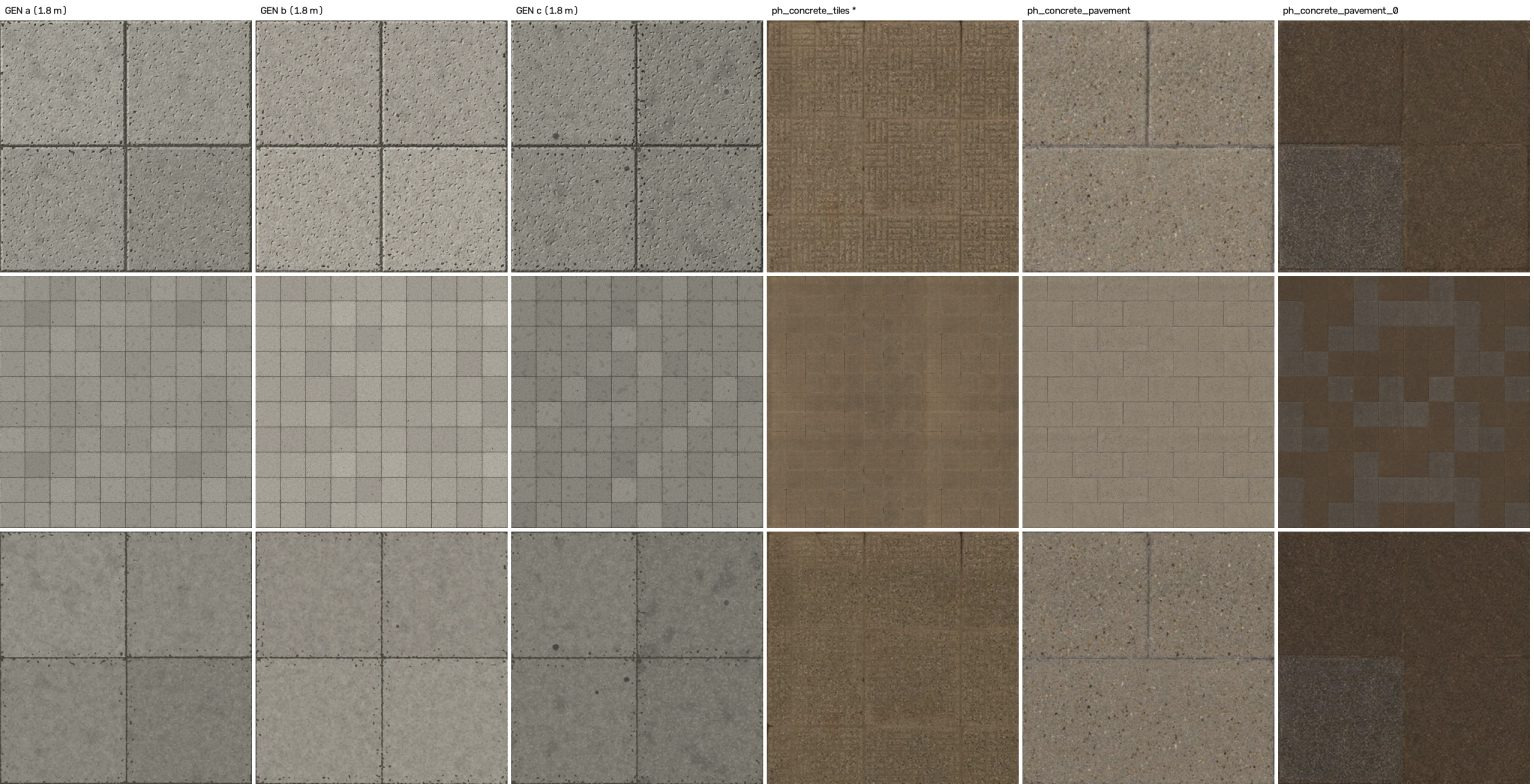
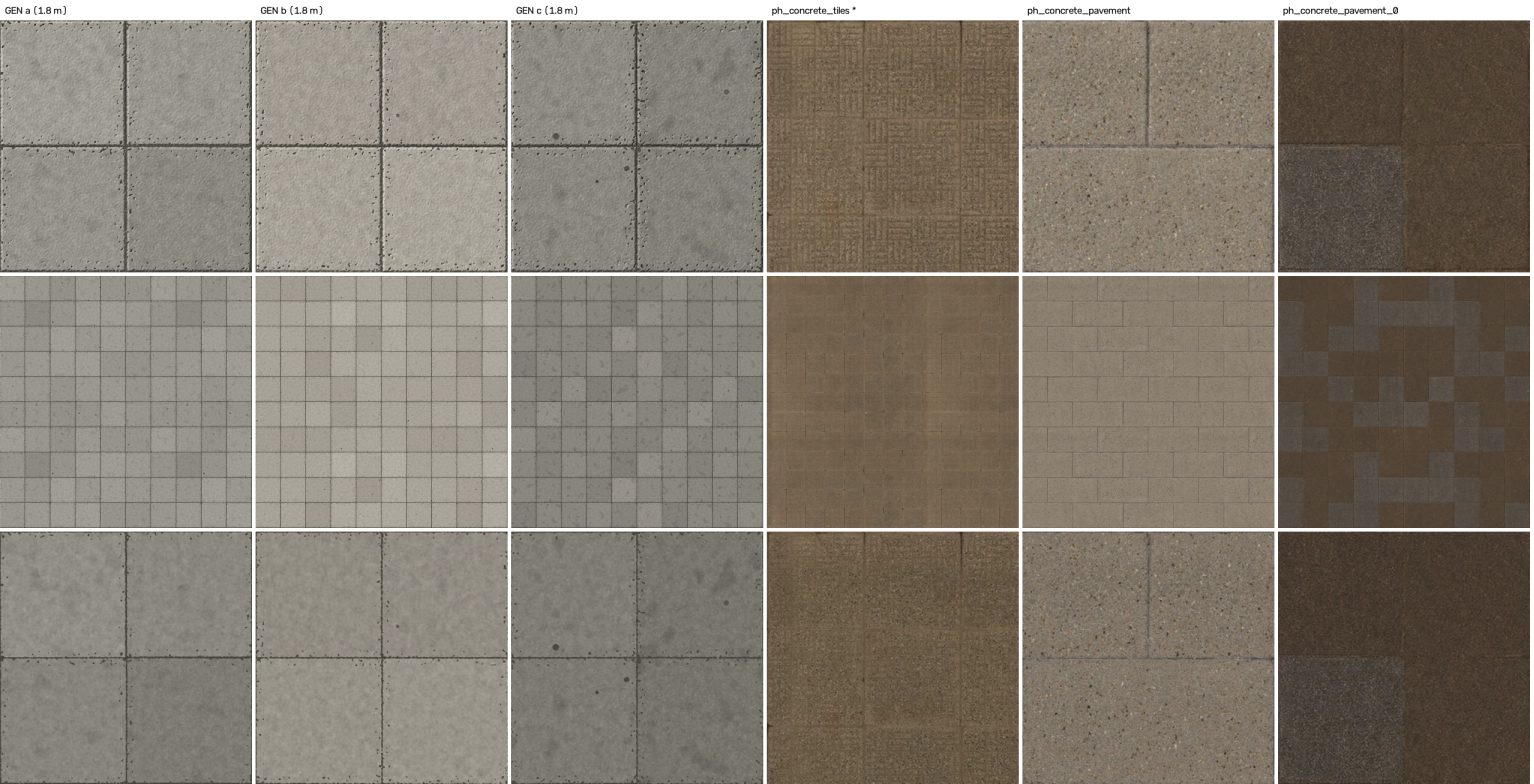
Texture factory: verdicts, cost, weak points (docs/TEXTURE_FACTORY.md), TODO entries; paving chips only on edges

diff --git a/tools/texturefactory/materials/ground.py b/tools/texturefactory/materials/ground.py
@@ -154,6 +154,7 @@ def paving(T, P):
     cn = T.noise(0.02, 2, octaves=2)
     corner = smoothstep(0.8, 1.0, np.minimum(np.abs(lx) / hx, 1) * np.minimum(np.abs(ly) / hy, 1))
     chip = smoothstep(0.0, 0.3, cn - 1.6 + 1.2 * corner + 0.4 * pu(1) * P.get("chips", 0.5)) * 0.02
+    chip = chip * smoothstep(-0.028, -0.014, U["d"])               # chips only along the edges (no holes mid-tile)
     d = U["d"] + T.noise(0.01, 3) * 0.0006 + chip
     inside = smoothstep(0.0006, -0.0006, d)
     cham = P.get("chamfer", 0.004)
@@ -161,14 +162,14 @@ def paving(T, P):
     edge = -cham * (1 - t) * 0.8
     settle = pu(2, "normal") * 0.0015 + pu(3, "normal") * 0.004 * lx + pu(4, "normal") * 0.004 * ly   # rocked tiles
     # exposed fine aggregate (washed surface) + cement skin
-    ag = stones(T, 0.0035, 5, presence=0.55, dome_m=0.00035, flat=0.7)
+    ag = stones(T, 0.003, 5, presence=0.4, dome_m=0.00025, flat=0.7)
     surf = T.noise(0.01, 6, octaves=3) * 0.0002 + ag["height"]
     h_t = edge + settle + surf - smoothstep(0.0, 0.004, chip) * 0.003
     h = lerp(np.full_like(d, -0.006) + T.noise(0.003, 7) * 0.0005, h_t, inside)
     base = hexcol(P["color"])
     col = base * np.exp(pu(5, "normal") * P.get("tile_sd", 0.07))[..., None]
     col = col * (1 + T.noise(0.06, 8, octaves=4)[..., None] * 0.07 + T.noise(0.004, 9, octaves=2)[..., None] * 0.05)
-    agc = palette_pick(ag["rnd"], [(hexcol("#8f8a82"), 3), (hexcol("#6d6964"), 2), (hexcol("#a8a298"), 1), (hexcol("#5b5a58"), 1)])
+    agc = palette_pick(ag["rnd"], [(hexcol("#948f86"), 3), (hexcol("#7d7972"), 2), (hexcol("#aba59b"), 2), (hexcol("#6a6865"), 0.5)])
     col = lerp(col, agc, ag["mask"] * P.get("agg_show", 0.55))
     # stains: dark spills, rust spot, chewing gum (flat pale grey-black discs)
     stain = smoothstep(0.9, 2.2, T.noise(0.25, 10, octaves=3)) * P.get("stains", 0.4)
@@ -187,7 +188,7 @@ def paving(T, P):
 
 
 PAVING = dict(tiles=6, joint=0.004, chamfer=0.004, color="#8b877f", tile_sd=0.07, chips=0.5, stains=0.4, gum=0.12,
-              agg_show=0.5)
+              agg_show=0.35)
 
 
 def make_paving(extra=None):

diff --git a/docs/TEXTURE_FACTORY.md b/docs/TEXTURE_FACTORY.md
@@ -101,6 +101,82 @@ review from this worktree, where they are built.
 
 See "Verdicts" below for which wins.
 
-## Verdicts
+## Verdicts (my read of the lab renders and sheets; the owner decides in the lab)
 
-See the final report section in this file (filled after the review renders) and docs/TODO.md.
+Lab conditions: same wall / floor / roof, same sun, rows at 1 / 10 / 50 m, scan tint 0 for all.
+
+| Material | Factory vs best CC0 scan | Why |
+|---|---|---|
+| stone_blue | **factory wins clearly** | The CC0 "granite" scans are brown. The factory set is real petit granit: blue-grey, drafted margin, bush-hammered field, crinoids, veins. |
+| slate | **factory wins** | The shipped roof_slates_02 reads as beige wooden shingles. The factory slates are blue-black with lapped tails and relief (the owner's "slates read flat" note). |
+| paving_concrete | **factory wins** | The shipped concrete_tiles is a brown parquet-like pattern. The factory set is the grey Brussels 30 cm tile with joints, chamfers, gum and stains. |
+| brick_dark | **factory wins on identity** | Purple-brown clinker with part-glazed bricks; the CC0 "dark" bricks are olive / khaki. The scans still have richer surface detail. |
+| asphalt | **tie** (factory ≈ scan; both far above the old procedural) | Porphyry chips in a worn binder. Reads like acg_Asphalt015 / asphalt_02 at 1 and 10 m, with 3 variants (new / aged / pale). |
+| brick_yellow | **tie** | The factory buff colour is closer to Uccle; Bricks105 has more natural surface detail. |
+| render_white | **tie** | Comparable to Plaster002. |
+| brick_red_brussels | **scan narrowly wins near**, tie at 10-50 m | ph_red_brick (the owner's pick) has softer, more irregular mortar and a real fired-clay surface at 1 m. The factory set has the right Brussels colours and the cross bond, but its bricks are still a little too clean and regular up close. |
+| stone_white | **scan wins on surface**, factory on colour | The factory set is the right cream white stone, but its face grain is too uniform and the joints too faint. |
+| cobbles | **scan wins** | Factory setts read too regular and a little blue. The scan's worn, rounded, irregular setts are more convincing. |
+| roof_tiles_red | **scan wins clearly** | At 10 m the factory pantiles read as corrugated sheet: the rolls run on without a strong course break. Needs per-tile nose shadow and offset. |
+
+Old procedural (live TSL) vs the factory: on every material the baked set is cleaner (no crawling, the
+anti-tiled scan path) and more detailed per unit. This is the owner's original complaint, now addressed by the
+pipeline.
+
+Trees (`docs/img/texfactory/trees_sheet.jpg`):
+- Barks: oak, lime and maple read as real fissured bark. Beech is the right smooth silver-grey; its branch-scar eyes
+  are too few and repeat visibly on a 1 m tile. Plane reads as camouflage, but the CC0 Bark009 is still more natural
+  (its fine flaking texture). Birch and horse chestnut are weak (birch speckled instead of lenticel bands; chestnut
+  scales too small and uniform).
+- Leaf sprays: legible species shapes (plane, beech, lime, maple; horse chestnut compound), 3 seasons. Coverage is
+  0.32-0.39, which matches the lab's 0.37-0.43. They keep their mass at 24 px.
+- Not yet checked inside the Tree Textures lab (it lives on claude/foundation; this branch is from claude/materials).
+
+## Cost
+
+Texture memory and download, per set (generated.json):
+
+| Set | GPU memory (BC7 / ASTC, 2 maps + mips) | Download (KTX2 UASTC + zstd) |
+|---|---|---|
+| Factory 1K | 2.67 MB | 1.41-2.36 MB (mean 1.88) |
+| Factory 2K | 10.67 MB | 4.83-8.77 MB (mean 6.61) |
+| CC0 scan 1K, for comparison | 2.67 MB | 2.33 MB mean (68 candidates) |
+| Leaf spray 1K (one season + the shared normal) | 2.67 MB | 0.76-0.94 MB |
+| Each extra season | 1.33 MB | ~0.4 MB |
+| Old procedural | 0 MB | 0 MB |
+
+**GPU per pixel.** A factory set goes through exactly the same shader as a scan (`variant: "scan"`: 3 hex taps x
+2 maps + the live layers), so its cost per pixel is the scan's. The library's quiet-GPU table in MATERIALS.md gives
+for brick: proc 2.69 ms, scan 2.42 ms per full 2.7 Mpx screen, so the scan path is about 0.3 ms cheaper than the
+live procedural one.
+
+My bench (lab "cost", full-screen wall 1400 x 900, alternating rounds, 2026-11-13) was **not on a quiet GPU**: the
+owner's other WebGPU tabs were active, and the lab tab was throttled to 1 fps behind them. Readings, ms over a plain
+material:
+
+| Material | procedural | scan | factory 1K | factory 2K |
+|---|---|---|---|---|
+| brick_red (2 rounds) | 2.03 / 2.03 | 1.51 / 1.44 | 1.57 / 2.69 | 2.56 / 1.18 |
+| asphalt (last round) | 1.83 | 1.38 | 2.10 | 1.18 |
+
+The scan and factory columns differ only by noise (the same shader and texture format; 1K and 2K swap places
+between rounds). The one stable signal is the one MATERIALS.md already gives: textured is cheaper per pixel than
+the live procedural.
+- To re-measure on a quiet GPU: lab → cost ⟳ on a material with only that tab open.
+- Perf note for the owner: baked sets cost **less GPU time per frame** than live procedural and the same as scans.
+  The price is **memory and download**: 2.7 MB GPU and ~1.9 MB download per 1K material; 2K is 4x the memory (10.7
+  MB) and ~3.5x the download. Ship 1K by default, 2K only where the owner sees the difference up close.
+
+## Weak points / next
+
+- Brick (red): too clean and regular at 1 m. Add mortar irregularity (slope-blur smears onto the faces), fewer
+  pockmarks, uneven firing gradients per brick, occasional replaced bricks / repointed patches.
+- Cobbles: too regular. Add irregular sett plan shapes (split faces), varied wear, darker sand joints, less blue.
+- roof_tiles_red: needs the course break (nose shadow, per-tile offsets / tilt) so it stops reading as corrugated.
+- stone_white: grain too uniform, joints too faint. Needs crust / gypsum blackening patterns and sharper joints.
+- Tree barks: plane needs the fine flaking edges of Bark009; birch and horse chestnut need a rework; beech eyes vary
+  per tile only (1 m repeat).
+- Leaves: no Tree Textures lab check yet (merge or cherry-pick into claude/tree-textures / foundation and plug in as
+  `params.leafAtlas`).
+- 2K sets were made for variant a only (KTX2). Every variant has 2K sources and WebP.
+- The bench needs a quiet GPU.

diff --git a/docs/TODO.md b/docs/TODO.md
@@ -243,6 +243,14 @@ read-only (copy into `vendor/` with ORIGIN.md); measure GPU ms before / after (s
 - [ ] Owner: pick variant + parameters per material in `labs/material-lab.html`, download `choices.json`, commit it as `viewer/materials/choices.json`.
 - [ ] Then the integration steps of `docs/MATERIALS.md` (hero assets first, then ground, façades, roofs).
 
+## Texture factory (branch claude/texfactory, 2026-11-13; docs/TEXTURE_FACTORY.md)
+
+- [ ] Owner: review the factory sets in the Material Lab (versions "Factory <family> <variant> 1K/2K", badge "CC0 texfactory"; serve the claude/texfactory worktree, its generated files are local) next to the scans. Clear factory wins in my read: stone_blue, slate, paving_concrete, brick_dark; ties: asphalt, brick_yellow, render_white; scans still win: brick_red (near), stone_white (surface), cobbles, roof_tiles_red.
+- [ ] Factory round 2: brick_red mortar irregularity + fewer pockmarks; cobbles less regular; pantile course break (reads as corrugated at 10 m); stone_white crust + sharper joints.
+- [ ] Trees: plug the factory barks (scan format) and leaf sprays (params.leafAtlas, 3 seasons) into the Tree Textures lab (claude/foundation) and compare live; rework birch / horse chestnut bark, plane flake edges.
+- [ ] Re-measure GPU cost (lab cost button) on a quiet GPU: the 2026-11-13 numbers were taken behind other WebGPU tabs.
+- [ ] After a merge conflict in viewer/materials/candidates.json: take the other side, run `python -E -P tools/texturefactory/register.py`.
+
 ## STIB tram model (approved by the owner 2026-11-04, merged)
 - [x] T3000 (line 92's stock) scripted in Blender (`tools/blender/tram.py`), loader / LODs / placement `viewer/tramModel.js`,
       Tram Lab (`labs/tram-lab.html`), in the city by default (tramline.js; `?tram=box` = the old boxes). Per tram: LOD0 15.9k, LOD1 5.7k, LOD2 1.35k triangles.
